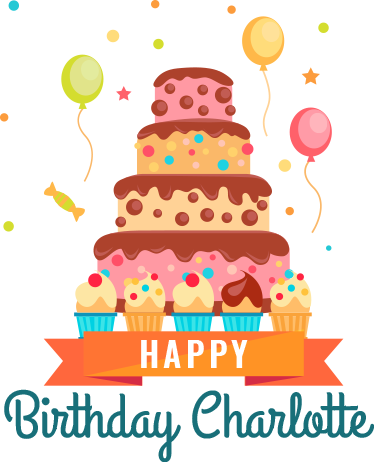
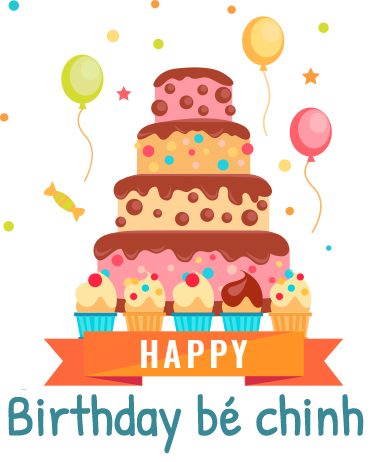
hpbd okay

Changed region(s): [[0.0, 0.8182, 1.0, 1.0]]

diff --git a/hpbd/index.html b/hpbd/index.html
@@ -1,14 +1,14 @@
 
 <!DOCTYPE html><html class=''>
 <head><meta charset='UTF-8'>
-<style class="cp-pen-styles">@import url(https://fonts.googleapis.com/css?family=Damion);
+<style class="cp-pen-styles">@import url(https://fonts.googleapis.com/css?family=Sriracha&subset=latin,vietnamese);
 * {
   box-sizing: border-box;
   font-weight: normal;
 }
 
 body {
-  font-family: 'Damion', cursive;
+  font-family: 'Sriracha';
   background: #fbefec;
   background: -webkit-radial-gradient(center, ellipse cover, #fbefec 0%, #dab4b4 100%);
   background: -webkit-radial-gradient(center ellipse, #fbefec 0%, #dab4b4 100%);
@@ -19,7 +19,7 @@ body {
 body .birthday .add {
   margin-top: 40px;
   clear: both;
-  font-family: 'Damion', cursive;
+  font-family: 'Sriracha';
   background: transparent;
   border: 2px solid #e77572;
   color: #e77572;
@@ -81,7 +81,7 @@ body .birthday_inner__modal button {
   border: none;
   width: 100%;
   font-size: 20px;
-  font-family: 'Damion', cursive;
+  font-family: 'Sriracha';
   position: absolute;
   left: 0;
   right: 0;
@@ -379,7 +379,7 @@ body .birthday_inner__stage .options .sponges .item h4, body .birthday_inner__st
 }
 body .birthday_inner__stage button {
   clear: both;
-  font-family: 'Damion', cursive;
+  font-family: 'Sriracha';
   background: transparent;
   border: 2px solid #e77572;
   color: #e77572;
@@ -578,18 +578,18 @@ path, polyline, line {
       <div class='modal_content'>
         <h1>Title</h1>
         <p>Content</p>
-        <button>OK, Let's go</button>
+        <button>Yeeeeee :"&gt</button>
       </div>
     </div>
     <div class='birthday_inner__stage stage1'>
       <div class='intro_cake'>
-        <img class='intro' src='https://s3-us-west-2.amazonaws.com/s.cdpn.io/217233/cake.png'>
+        <img class='intro' src='cake.png'>
       </div>
-      <button class='start'>Let’s make a cake</button>
+      <button class='start'>Tiếp tục</button>
     </div>
     <div class='birthday_inner__stage stage2'>
-      <h1>Let’s get mixing</h1>
-      <h2>OK, so let's start by mixing all of our ingredients together in a big mixing bowl. Click the mix button below until the mixture is nice and smooth.</h2>
+      <h1>Để a hướng dẫn bé nhe :o</h1>
+      <h2>Đầu tiên phải trộn bột nhé</h2>
       <div class='mix'>
         <div class='mix_bowl'>
           <img src='https://s3-us-west-2.amazonaws.com/s.cdpn.io/217233/bowl.png'>
@@ -598,11 +598,11 @@ path, polyline, line {
           <img src='https://s3-us-west-2.amazonaws.com/s.cdpn.io/217233/spoon.png'>
         </div>
       </div>
-      <button class='mixer'>Click here to mix</button>
+      <button class='mixer'>Bấm vào đây để trộn</button>
     </div>
     <div class='birthday_inner__stage stage3'>
-      <h1>Let’s bake our base</h1>
-      <h2>Alright, let’s get this mixture in the oven. Go ahead and drag the cake mix into the digital oven. Then put your feet up while it bakes.</h2>
+      <h1>Bây giờ phải nướng bánh</h1>
+      <h2>Bé chỉ cần bấm vào cái khay bánh là đc :o</h2>
       <div class='oven'>
         <img src='https://s3-us-west-2.amazonaws.com/s.cdpn.io/217233/oven.png'>
       </div>
@@ -611,11 +611,11 @@ path, polyline, line {
       </div>
     </div>
     <div class='birthday_inner__stage stage4'>
-      <h1>Let’s make the cake</h1>
-      <h2>Build your cake in any order you want. Click an ingredient to add it to your cake. You can add more than one item e.g 2 vanilla sponges but only 5 bases and 6 fillings.  Hit the button at the bottom to finish your cake and add your candles. Make sure you leave some icing for the top of your cake!</h2>
+      <h1>Còn tạo hình nữa thôi :o</h1>
+      <h2>Bé chinh bấm vào mấy cái màu ở dưới kia để tạo thành tầng bánh nheeee (đc để tối đa 6 tầng)</h2>
       <div class='svg'>
         <svg enable-background='new 0 0 213 46' height='46px' id='Layer_1' space='preserve' version='1.1' viewbox='0 0 213 46' width='213px' x='0px' xmlns:xlink='http://www.w3.org/1999/xlink' xmlns='http://www.w3.org/2000/svg' y='0px'>
-          <text x="30" y="15" fill="red">Happy Birthday to Cun!</text>
+          <text x="25" y="15" fill="#e77572">Happy Birthday to Cun!</text>
       </div>
       <div class='options'>
         <div class='sponges inactive'>
@@ -664,7 +664,7 @@ path, polyline, line {
       <div class='cakemake'>
         <div class='base'></div>
       </div>
-      <div class='startagain'>Nui ❤ Cun</div>
+      <div class='startagain'></div>
       <button class='add'>Add the candle</button>
       <button class='sa'>Nui ❤ Cun</button>
     </div>
@@ -673,7 +673,7 @@ path, polyline, line {
 <script src='https://code.jquery.com/jquery-2.2.4.min.js'></script><script src='https://cdnjs.cloudflare.com/ajax/libs/jqueryui/1.11.4/jquery-ui.min.js'></script>
 <script>$('.start').click(function () {
     $('.stage1').fadeOut();
-    fire_modal('https://s3-us-west-2.amazonaws.com/s.cdpn.io/217233/cake_modal.png', 'Nui ❤ Cun', 'Chúc mừng sinh nhật bé chinh cụa anh.');
+    fire_modal('https://s3-us-west-2.amazonaws.com/s.cdpn.io/217233/cake_modal.png', 'Nui ❤ Cun', 'Chúc mừng sinh nhật bé chinh cụa anh. Năm nay sinh nhật bé anh ko đc gặp bé rồi :\'( Quà a cũng ko tặng đc bé nứa. Hay bây h mình làm bánh gato đi :o');
 });
 progress = 1;
 $('.modal_content button').click(function () {
@@ -709,16 +709,21 @@ $('.mixer').click(function () {
     }
     if (mixtimes == 1) {
         $('.stage2').fadeOut();
-        fire_modal('https://s3-us-west-2.amazonaws.com/s.cdpn.io/217233/mix_modal.png', 'Mix successful!', 'Congratulations, the mixture is perfect! After pouring the mixture into a baking tin, it\u2019s now time to put it in our digital oven for about 3 seconds. That should be enough time for a nice spongy base.');
+        fire_modal('https://s3-us-west-2.amazonaws.com/s.cdpn.io/217233/mix_modal.png', 'Bé chinh giỏi quá!!!', '');
     }
 });
 $('.tin').draggable({ revert: true });
 $('.oven').droppable({
     drop: function (event, ui) {
         $('.stage3').fadeOut();
-        fire_modal('https://s3-us-west-2.amazonaws.com/s.cdpn.io/217233/oven_modal.png', 'Bake successfull!', 'Yes! You are a master chef. The base is fully baked and looks super yummy. Now its time to combine this base with lots of other ingredients like jam, marmalade, chocolate and more.');
+        fire_modal('https://s3-us-west-2.amazonaws.com/s.cdpn.io/217233/oven_modal.png', 'Bánh chín rồi!!', 'Sắp xong rồi. Bé chinh siêu nhất luôn :"&gt');
     }
 });
+$('.tin').click(function (event, ui) {
+        $('.stage3').fadeOut();
+        fire_modal('https://s3-us-west-2.amazonaws.com/s.cdpn.io/217233/oven_modal.png', 'Bánh chín rồi!!', 'Sắp xong rồi. Bé chinh siêu nhất luôn :"&gt');
+    }
+);
 bases = 0;
 fillings = 0;
 $('.sponges .item_inner').click(function () {
@@ -779,8 +784,7 @@ $('.add').click(function () {
     fin();
 });
 $('.sa').click(function () {
-    window.location.removedByCodePen();
+
 });
-//# sourceURL=pen.js
 </script>
 </body></html>
